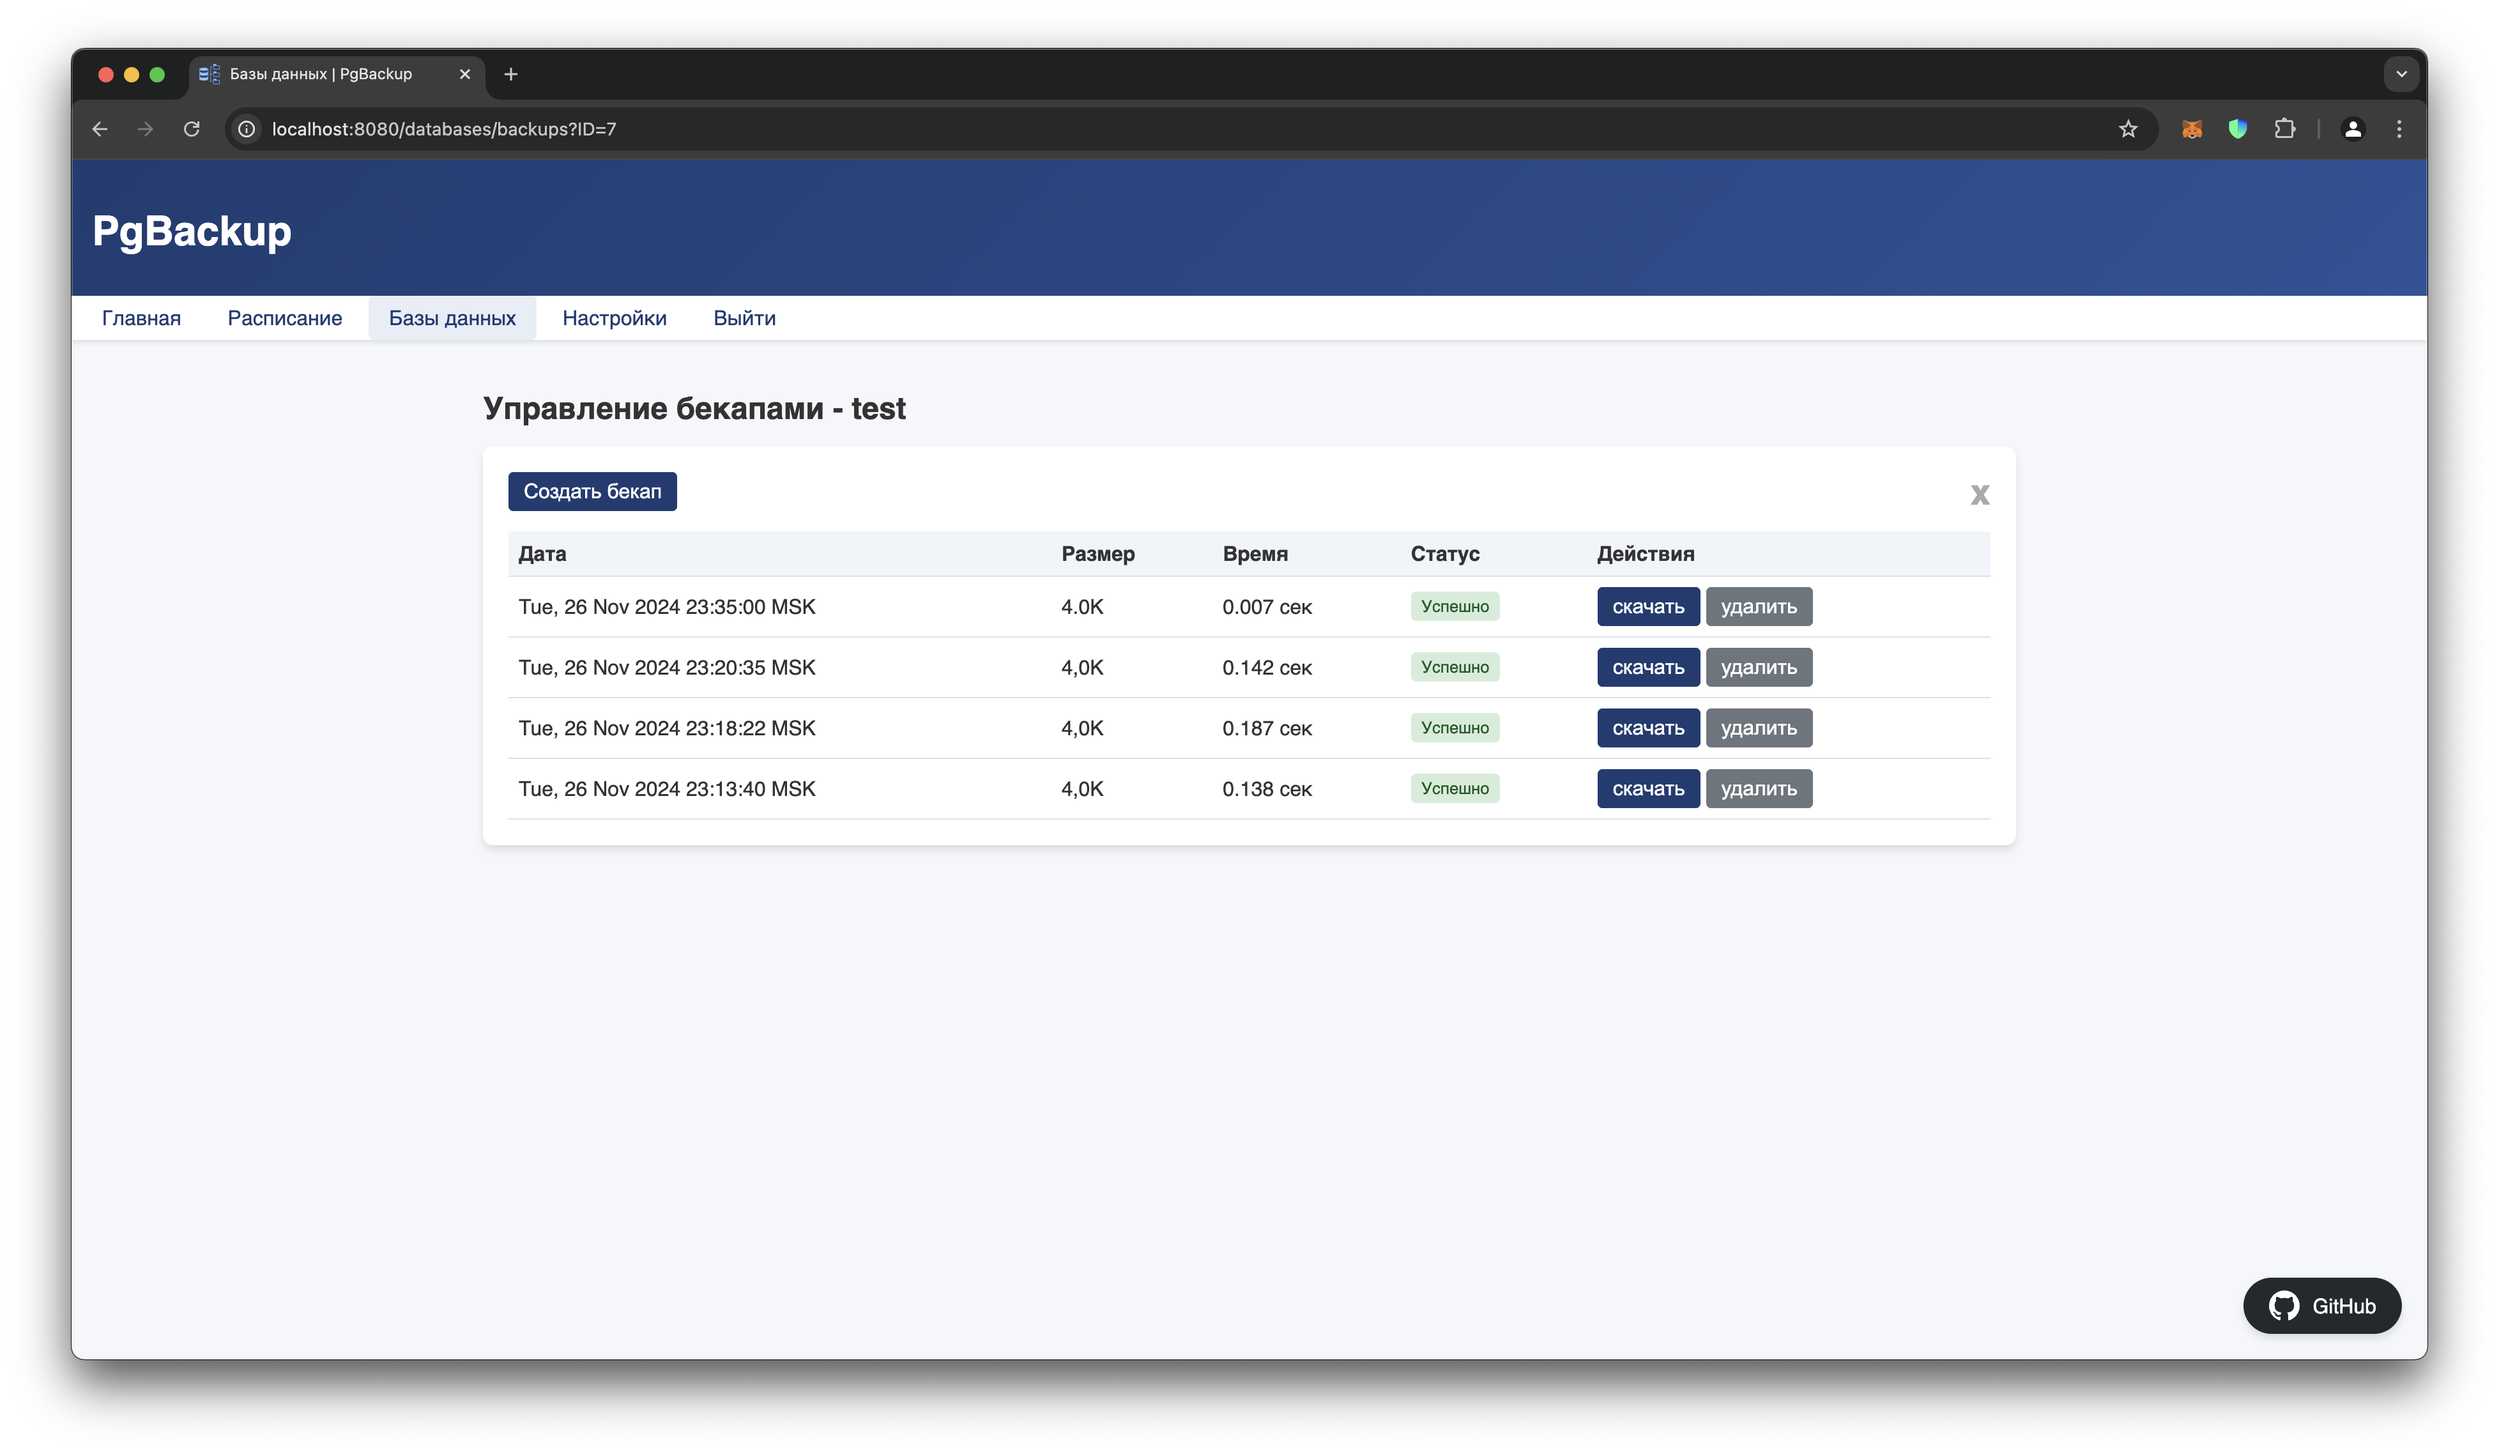
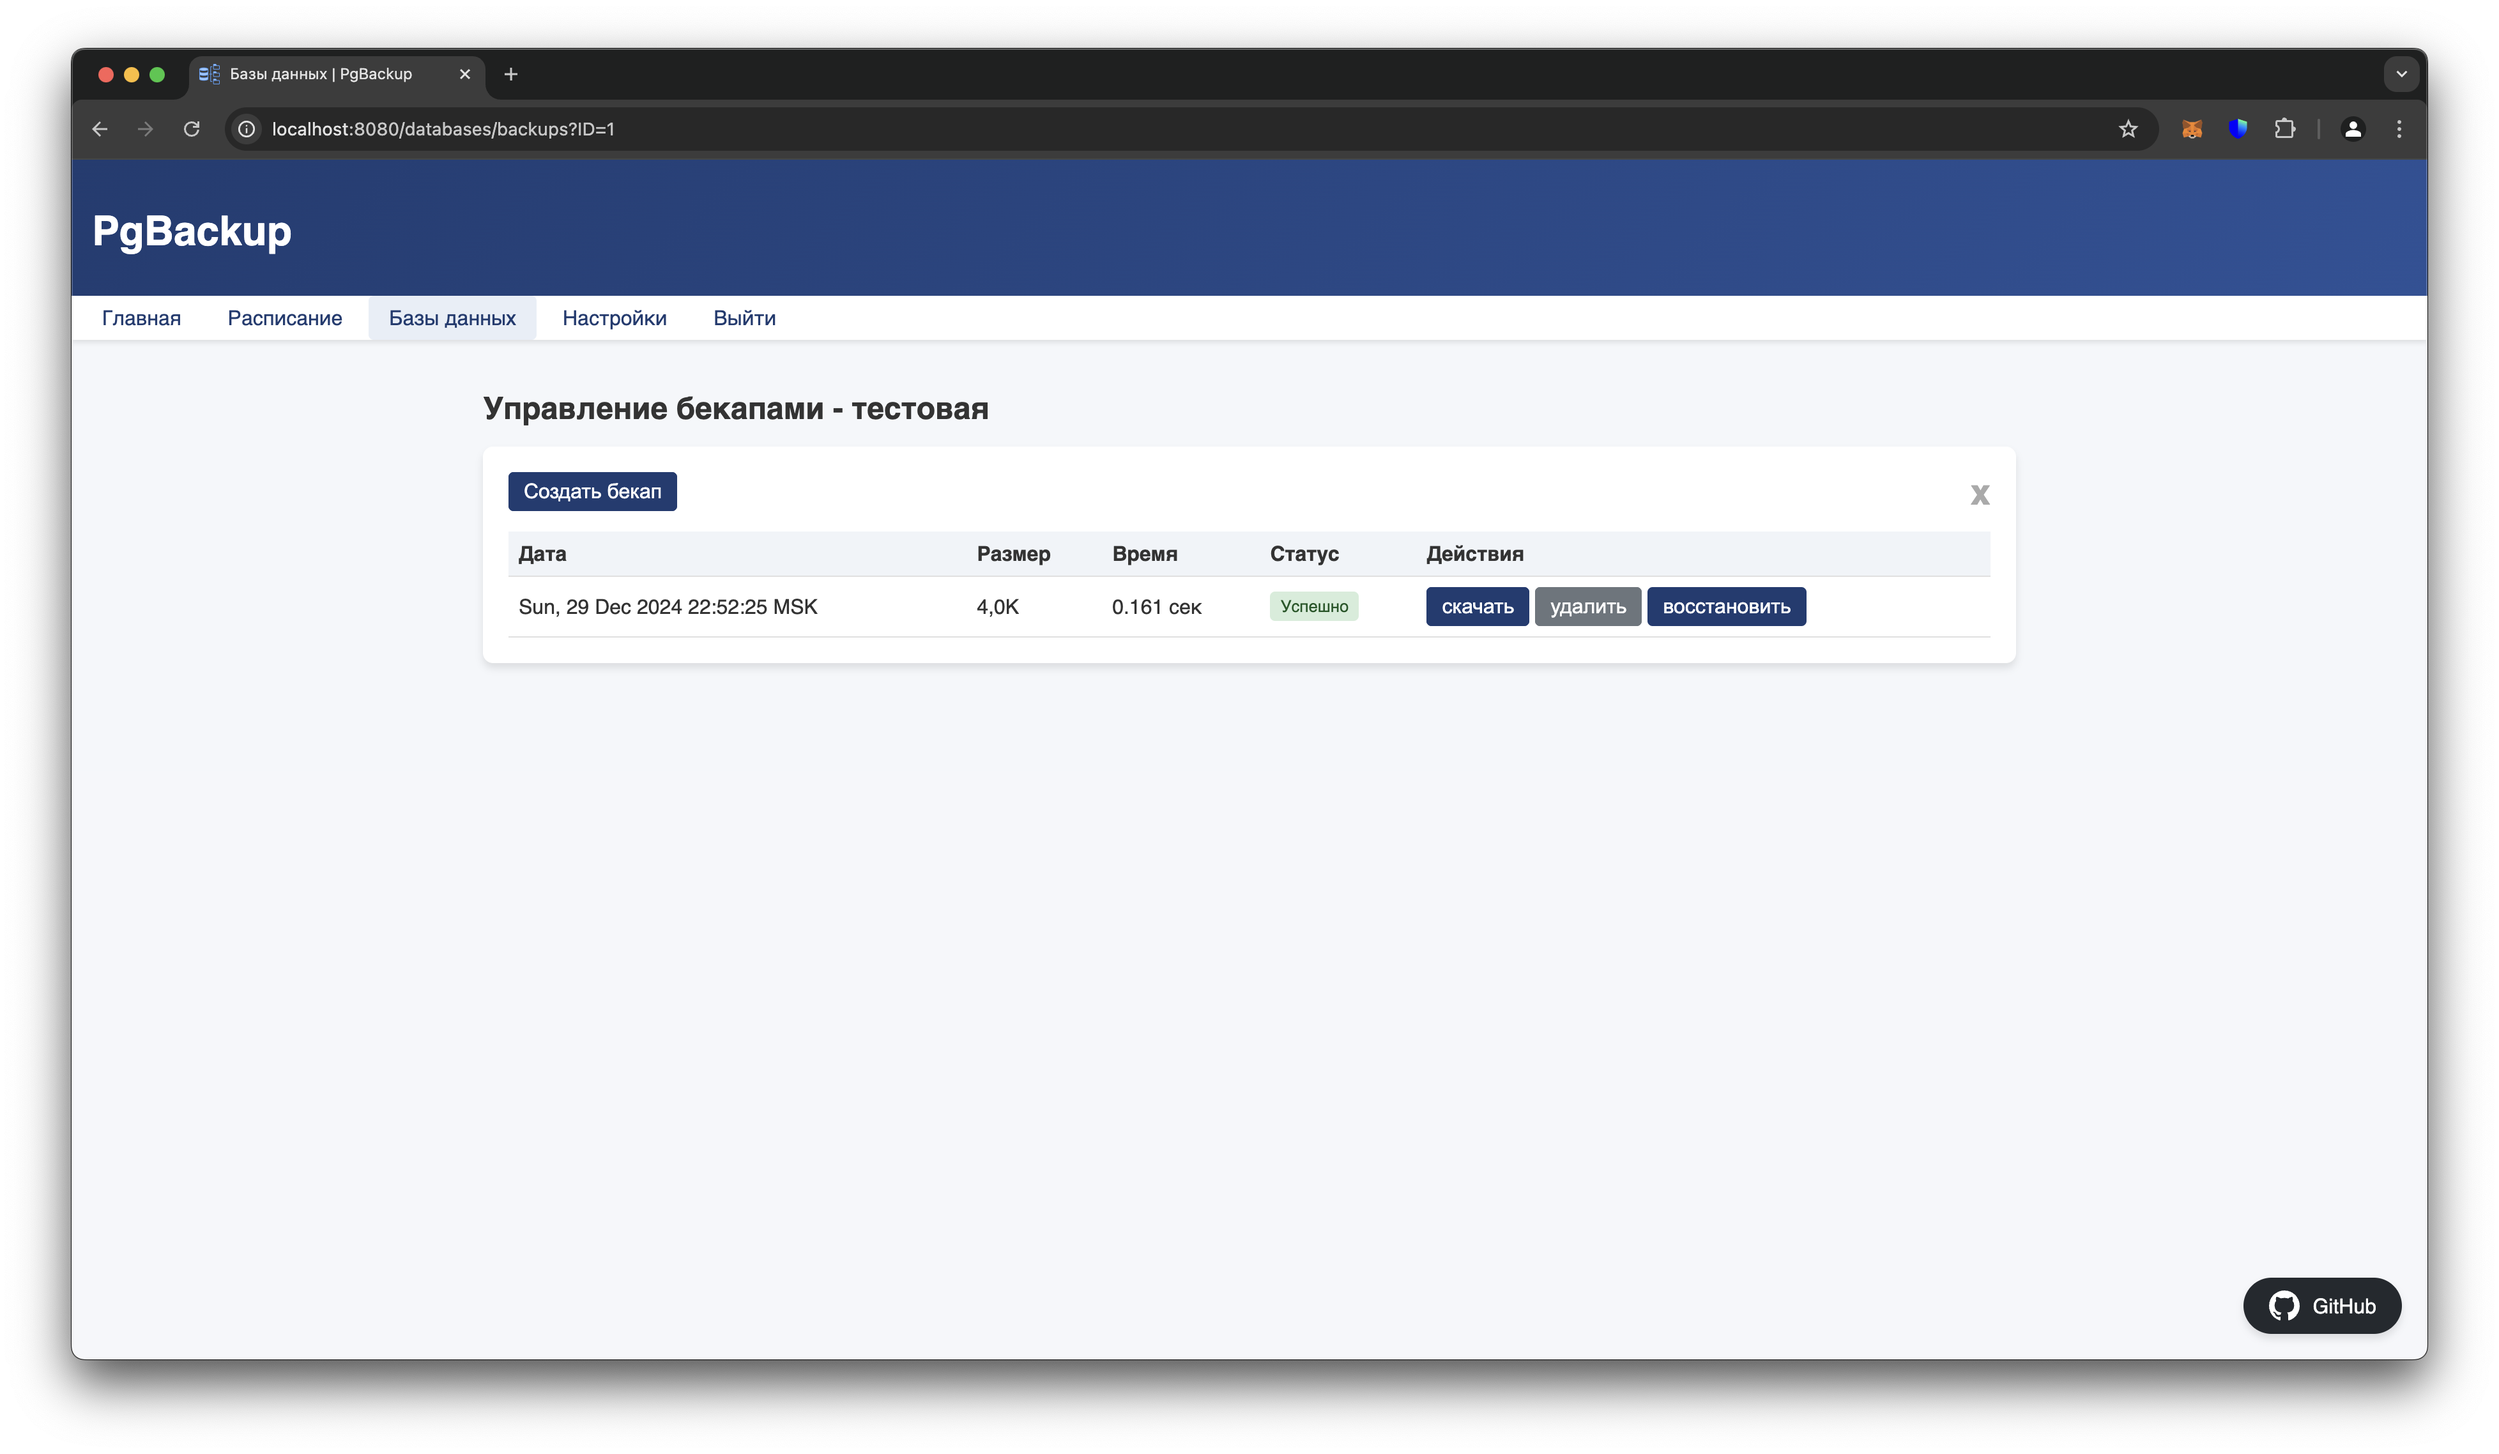
изменена страница бекапов

diff --git a/src/templates/views/main.html b/src/templates/views/main.html
@@ -107,6 +107,7 @@
           <th>Размер</th>
           <th>Время</th>
           <th>Статус</th>
+          <th>Действия</th>
         </tr>
       </thead>
       <tbody>
@@ -126,6 +127,11 @@
               Ошибка
             </span>
             {{end}}
+          </td>
+          <td>
+            <form class="btn-form btn btn-primary" action="/databases/backup/download" method="get">
+              <button type="submit" name="ID" value="{{.ID}}" class="btn btn-primary">скачать</button>
+            </form> 
           </td>
         </tr>
         {{ end }}
